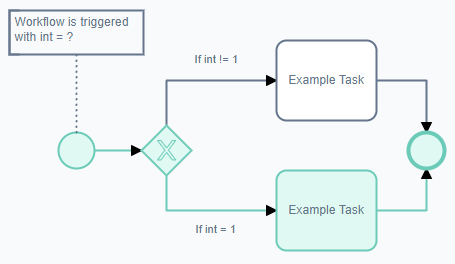
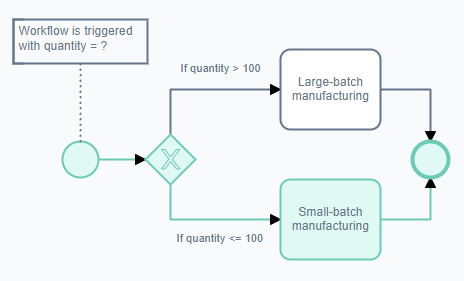
Configuring inputs still

Changed region(s): [[0.0, 0.0303, 0.9846, 0.9697]]

diff --git a/docs/Rapid/4-Keyper Manual/3-Workflow/12-executing-workflows/12-executing-workflows.md b/docs/Rapid/4-Keyper Manual/3-Workflow/12-executing-workflows/12-executing-workflows.md
@@ -26,7 +26,7 @@ Some process runs may have a delay before **Workflow** indicates that they start
 
 The process diagram will highlight each element with colours, to visually communicate the outcome of a process run and assist with troubleshooting.
 
-![A diagram depicting how a completed process run will appear. In this example, a start event flows into an exclusive gate, and then diverges down two separate paths as outputs. The upper flow path is labelled "if int != 1" and the lower path is labelled "if int = 1". The start event contains a label that reads "workflow is triggered with int = ?". Both paths lead into a single default task labelled "Example Task", and then meet again by both running into an end event. The following elements are highlighted green: start event, gateway, lower path, lower path example task, and the end event. From this, it can be determined that the lower path of int=1 was taken, as this is the section that is highlighted green.](<Process Run Feedback.png>)
+![A diagram depicting how a completed process run will appear. In this example, a start event flows into an exclusive gate, and then diverges down two separate paths as outputs. The upper flow path is labelled "if quantity > 100" and the lower path is labelled "if quantity <= 100". The start event contains a label that reads "Workflow is triggered with quantity = ?". Both paths lead into a single default task. The upper flow task reads "Large-batch manufacturing" and the lower flow task reads "Small-batch manufacturing". Both paths then flow into a single end event. The following elements are highlighted green: start event, gateway, lower path, lower path task, and the end event. From this, it can be determined that the lower path of quantity<=100 was taken, as this is the section that is highlighted green.](<Process Run Feedback.png>)
 
 > **Above:** This process run took the lower sequence flow route, as indicated by the green elements.
 
@@ -45,7 +45,7 @@ Previous process runs can be accessed using the drop-down menu in the **Command 
 1. Ensure you are viewing the desired process run
 2. Press the **Process Run** drop-down menu.
 
-![A screenshot that shows the ](<Process Run Versions.png>)
+![A screenshot that demonstrates the appearance and location of previous process runs when inside the Workflow experience. The Command Strip at the top of the Workflow page contains a dropdown menu. The screenshot is annotated with two red boxes to indicate the main button, and the options that appear. In this example, the button reads: "Process Run: 18 (Manufacture Erasers)". The other items have the same label, but with a different ID number (i.e. 17, 16, 15, etc.). Each process run has an icon of two nodes connected by a sequence flow.](<Process Run Versions.png>)
 
 This drop-down menu does not allow you to access previous builds or diagrams (i.e. if you want to return to how the diagram was built before you saved it). Instead, this is used to determine the outcomes of previous process runs, and to assist with troubleshooting.
 
@@ -55,7 +55,7 @@ All process runs (whether triggered manually, automatically by Rapid System, or 
 
 You can also navigate directly to a process run by typing the run number into a properly-structured URL.
 
-![Alt text](<Process Run URL.png>)
+![A screenshot that demonstrates how a process diagram's URL is structured. The URL reads: "https://environment.tenant/site/workflow/diagrams/4/edit?run=20". In red text, the number 4 is highlighted and labelled as being the Diagram ID. The number 20 is also highlighted, and labelled as being the Process Run ID.](<Process Run URL.png>)
 
 ### Previous Process Runs Are Linked to Items
 
@@ -65,14 +65,65 @@ A user informs you that a process run did not operate correctly when it was trig
 
 1. Open the specific item that triggered the process run
 
-2. 
+2. Click the [Linked Items Menu Button](</docs/Rapid/3-User Manual/2-Explorer/3-Pages/2-Page Components/Linked Items/Linked Items.md>) button in the **Command Strip**
 
+![A screenshot of the location and appearance of the "Linked Items" menu button. The menu button has an icon of two chain links, and a downwards chevron indicating that it will open a drop-down menu or panel. The screenshot is annotated with a red box to highlight the button's location.](<Process Run Menu 3.png>)
 
+3. Find the desired process run (they are arranged from latest down to oldest).
 
+4. Press the **Go to process run** button
+
+![A screenshot of the panel that opens from the "Linked Items" menu button. The panel has a section at the top titled "Filter items linked to this Paper." Note that in this example the table is called "Paper". Underneath this is a dropdown section titled "Process Runs (1)" indicating that all the items listed underneath it are process runs, and that there is currently only one process run linked to this item. In the process runs section is an item titled "Manufacture Erasers" which is the name of the process run in this example. The screenshot is annotated with a red box to highlight the location of the process run item. The screenshot is also annotated with a red arrow and another red box inside the first red box, indicating the button to "go to process run". At the bottom of the panel is an "Add Link" button, but this is not relevant for this particular explanation.](<Process Run Menu 4.png>)
+
+You will now be able to view the process run's results, and edit the process diagram if required by clicking the **Edit Diagram** button.
+
+![A screenshot of the "Edit Diagram Button". The button has an icon of a pencil and reads "Edit Diagram".](<Edit Diagram Button.png>)
 
 ## Manually Restarting a Process Run
 
-Process runs can be manually restarted 
+Process runs can be manually restarted if it fails during testing.
+
+
 
 ## Inputs
+
+When a process run is triggered manually or via a menu button, the process run can request additional inputs before running.
+
+:::note[Example]
+A manager requires a quote to be generated, but the payment due date for the quote needs to be a value decided as the quote is being generated. The manager could request a date input, so that once the process is triggered, a payment date can be entered by the user.
+:::
+
+:::note[Example 2]
+A manager wants to schedule a task such as "Manufacture X Erasers", and wants a specific task to be generated, depending on the quantity of erasers being manufactured. (i.e. A small-batch task vs a large-batch task).
+:::
+
+Inputs can be configured by:
+
+1. Select the **Canvas** background of a process diagram, to *ensure no elements are selected*.
+
+:::note[Configuring the Properties of a Process Diagram]
+You can tell whether an element is being configured, or the process diagram itself, by examining the object listed at the top of the **Properties Panel**. It should read: `Process_X (Process)`.
+:::
+
+2. In the **Properties Panel**, click the **Process Inputs** chevron to expand it.
+
+![A screenshot of the Properties Panel in the Workflow experience, when the user is not selecting any element and is instead configuring the properties of the entire process itself. The screenshot is annotated with a red box at the top of the panel, which reads "Process_1 (Process)". Underneath is a field for naming the process diagram called "Title". In this example the process diagram is titled "Manufacture Erasers". Underneath this is the "Process Inputs" section. A button allows the user to "+ Add new Input". When a new input is added, it has three fields: "Title", "ColumnName" and "Field Type". In this example, the user has entered the following data: Title = "Quantity", ColumnName = "Quantity" and Field Type = "Number". This input section of the screenshot is also annotated with a red box to draw attention to this section.](<Process Input Setup.png>)
+
+Each input that is added to this properties panel, will appear as a field that can have data entered once the process diagram is executed. Below is an explanation of what of the above configuration fields affects.
+
+| Field | Explanation |
+| --- | --- |
+| **Title** | This is the name that will appear above the field where the user can input data. |
+| **ColumnName** | This is the internal variable name that **Workflow** will use to describe this field. There is a distinction here so that the title can be longer and contain an explanation for the user, if required. |
+| **Field Type** | Here is where you set the expected input from the user. As this process diagram will accept a "Quantity of Erasers", it is set to anticipate the "Number" type of data. |
+
+3. Configure **Gateways** or other elements to read the input value.
+
+![A screenshot of a diagram that will do the following: take a "Quantity" input from the user, and then choose a task to execute depending on the value provided. The process has a default start event, with a label that reads: "Workflow is triggered with quantity = ?" The start event flows into an "Exclusive Gateway". The gateway has two outputs: an upper and lower one. The upper output sequence flow has a label that reads "if quantity > 100" and then flows into a task "Large-batch manufacturing" before flowing into the end event. The lower output sequence flow has a label that reads "if quantity <= 100" and then flows into a task "Small-batch manufacturing" before flowing into the end event.](<Process Input Setup 2.png>)
+
+In the example scenario above, we are manufacturing erasers and launching a different task depending on the quantity of erasers being created. Once our inputs are set up, we must configure elements on the page to read these input values.
+
+
+
+> **Above**: A **Gateway** being configured to take the input value from the user, and selects a path depending on the value.
 
